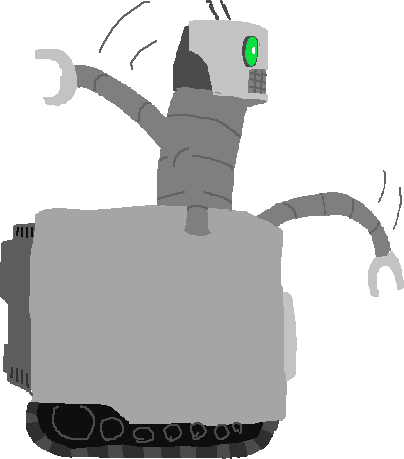
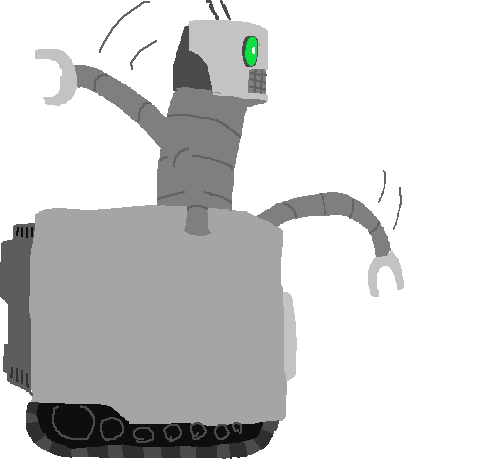
rob kastar skräp

diff --git a/carBuildGame.py b/carBuildGame.py
@@ -8,7 +8,7 @@ from dialog import robCarDialog
 #alla possitioner rob glider till
 ROB_SIDE_ENTRANCE = (0, HEIGHT/2)
 ROB_CORNER = CENTER_POS + scaledPos(160, 110)
-
+ROB_THROW_POS = CENTER_POS + scaledPos(-50, - HEIGHT / 5)
 class CarBuildGame(Game):
     def __init__(self, main, display):
         super().__init__(main, display)        
@@ -44,7 +44,11 @@ class CarBuildGame(Game):
                      "dig1": loadImage("robImages/dig1.png", RSM),
                      "dig1": loadImage("robImages/dig1.png", RSM),
                      "dig2": loadImage("robImages/dig2.png", RSM)}
-        
+        junk ={"j1":loadImage("junk/j1.png"), 
+               "j2":loadImage("junk/j2.png"),
+               "j3":loadImage("junk/j3.png"),
+               "j4":loadImage("junk/j4.png"),
+               "j5":loadImage("junk/j5.png"),}
         profiles = { "rob aah":loadImage("profiles/rob_aah.png"),
                      "rob angry1":loadImage("profiles/rob_angry1.png"),
                      "rob angry2":loadImage("profiles/rob_angry2.png"),
@@ -62,6 +66,7 @@ class CarBuildGame(Game):
                        "carpart": carpartImages,
                        "rob": robImages,
                        "profiles": profiles,
+                       "junk": junk,
                        "background1": loadImage("carFactory.png"),
                        "background2": loadImage("bg1.png"),
                        }
@@ -86,6 +91,7 @@ class CarBuildGame(Game):
         
         self.floorRect = makeRect(CENTER_POS + scaledPos(0, HEIGHT / 2), (WIDTH, 20 * GAME_SCALE))
         self.thrownItems = []
+        self.thrownJunk = []
    
     def spawnCarparts(self, pos, partType,hitboxSize):
         
@@ -104,6 +110,16 @@ class CarBuildGame(Game):
             self.carparts[partType].append(carpart)
             self.entities.append(carpart)
             self.rl3.append(carpart)
+    
+    def throwJunk(self, pos, strenght, objIndx):
+        pos = scaledPos(pos[0], pos[1])
+        object = Entity(self, pos, (2, 2), "junk")
+        object.setVelocity(strenght)
+        object.setAcceleration((0, BASE_GRAVITY / 2))
+        object.setImage("j"+str(objIndx + 1))
+        self.entities.append(object)
+        self.rl1.append(object)
+        self.thrownJunk.append(object)
     
     def spawnTrownCarpart(self, pos, strenght, partType, hitboxSize, imgidx):
         pos = scaledPos(pos[0], pos[1])
@@ -127,7 +143,7 @@ class CarBuildGame(Game):
         carpart = Dragable(self, ent.pos, ent.size, "carpart", snaprects)
         carpart.setImage(ent.imageKey)
         carpart.friction = 0.99
-        carpart.setVelocity(ent.velocity)
+        carpart.setVelocity((0, ent.velocity.y))
         carpart.setAcceleration(ent.acceleration)
         carpart.setAcceleration((0, BASE_GRAVITY))
         carpart.setCollidables([self.floorRect])
@@ -195,7 +211,7 @@ class CarBuildGame(Game):
             self.rob.setPos(CENTER_POS + scaledPos(WIDTH, - HEIGHT / 5))
             self.firstLoop = False
         
-        done = self.rob.glideToPos(CENTER_POS + scaledPos(20, - HEIGHT / 5), 3)
+        done = self.rob.glideToPos(ROB_THROW_POS)
         
         if done:
             self.firstLoop = True
@@ -208,7 +224,7 @@ class CarBuildGame(Game):
                 self.rl4.remove(self.rob)
                 self.rl1.append(self.rob)
                 self.rob.flip = True
-            self.rob.setPos(CENTER_POS + scaledPos(20, - HEIGHT / 5))
+            self.rob.setPos(ROB_THROW_POS)
             CAR_CENTER = CENTER_POS  + scaledPos(-10, +50)
             self.builtCar = [None, None, None, None, None]
             self.carparts = {"engine":[],"back":[],"front":[],"wheel":[]}
@@ -221,7 +237,7 @@ class CarBuildGame(Game):
             #self.spawnCarparts((100,100),"wheel",(50,50))
             self.firstLoop = False
             self.generalTimer = 0
-            self.spawnTrownCarpart(self.rob.pos, (0, -16), "wheel", (50, 50), 1)
+            self.spawnTrownCarpart(self.rob.pos, (randrange(-3, 4), -24), "wheel", (50, 50), 1)
             
         
         for item in self.thrownItems.copy():
@@ -233,13 +249,22 @@ class CarBuildGame(Game):
                 self.entities.remove(item)
                 self.rl3.append(carpart)
                 self.entities.append(carpart)
-
-        
+        for item in self.thrownJunk.copy():
+            if item.pos.x > WIDTH or item.pos.y > HEIGHT:
+                self.entities.remove(item)
+                self.rl1.remove(item)
+                self.thrownJunk.remove(item)
+        print(len(self.thrownJunk))
         #ska göras till en bättre animationskod sen
-        self.generalTimer = self.generalTimer + 0.20
+        
+        self.generalTimer = self.generalTimer + 0.10
         if int(self.generalTimer) % 2 == 0:
             self.rob.setImage("dig1")
-            if self.generalTimer > 20:
+            
+            if self.generalTimer > 2:
+                self.throwJunk(self.rob.pos + (randrange(-50, -40), 0), (randrange(10, 15), randrange(-8, -5)),randrange(0, 5))
+            
+                #self.spawnTrownCarpart(self.rob.pos, (randrange(-3, 4), -24), "wheel", (50, 50), 1)
                 self.generalTimer = 0
 
         elif int(self.generalTimer) % 2 == 1:
